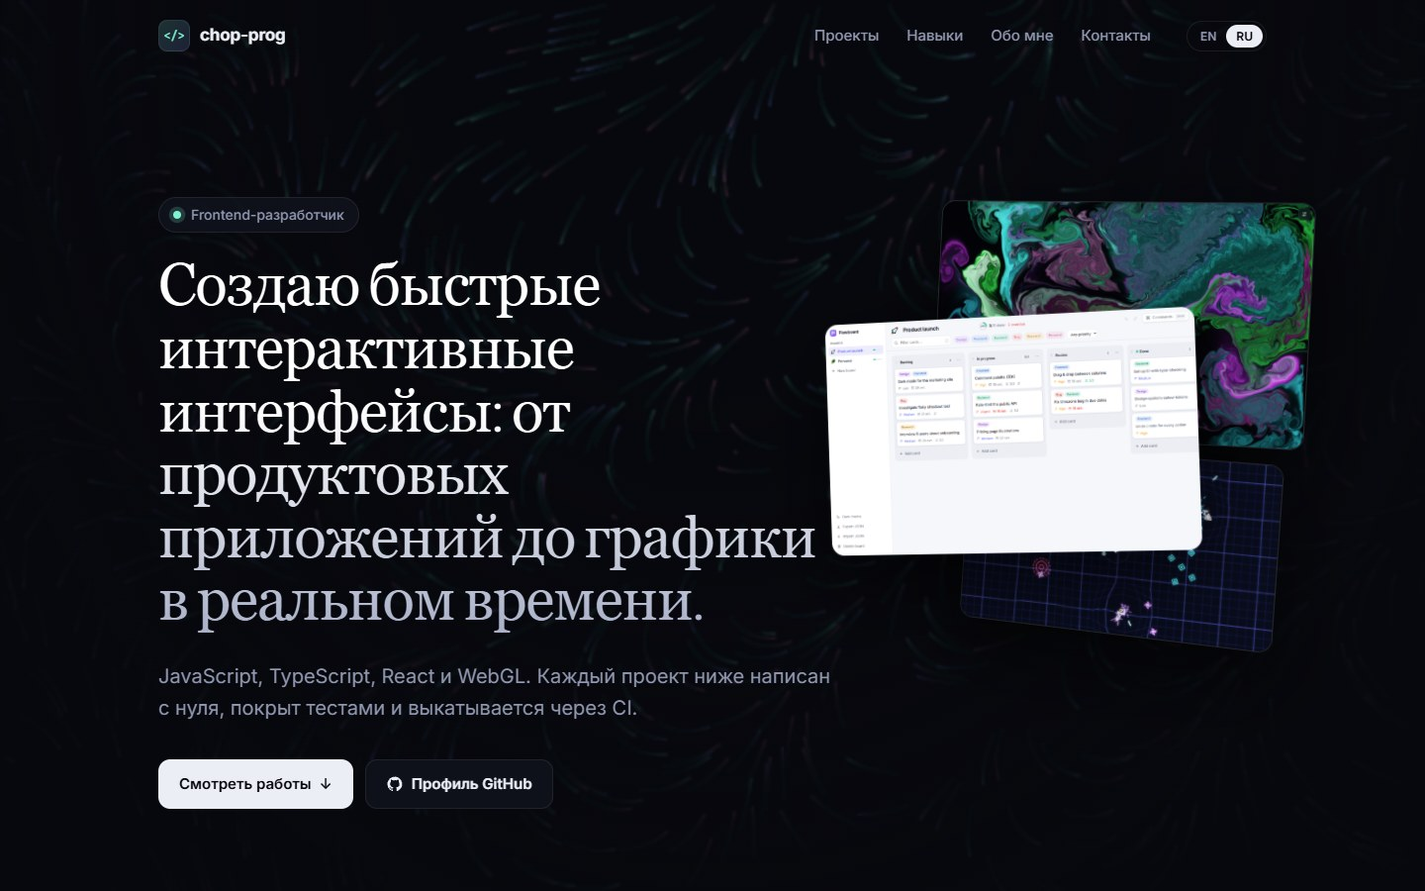
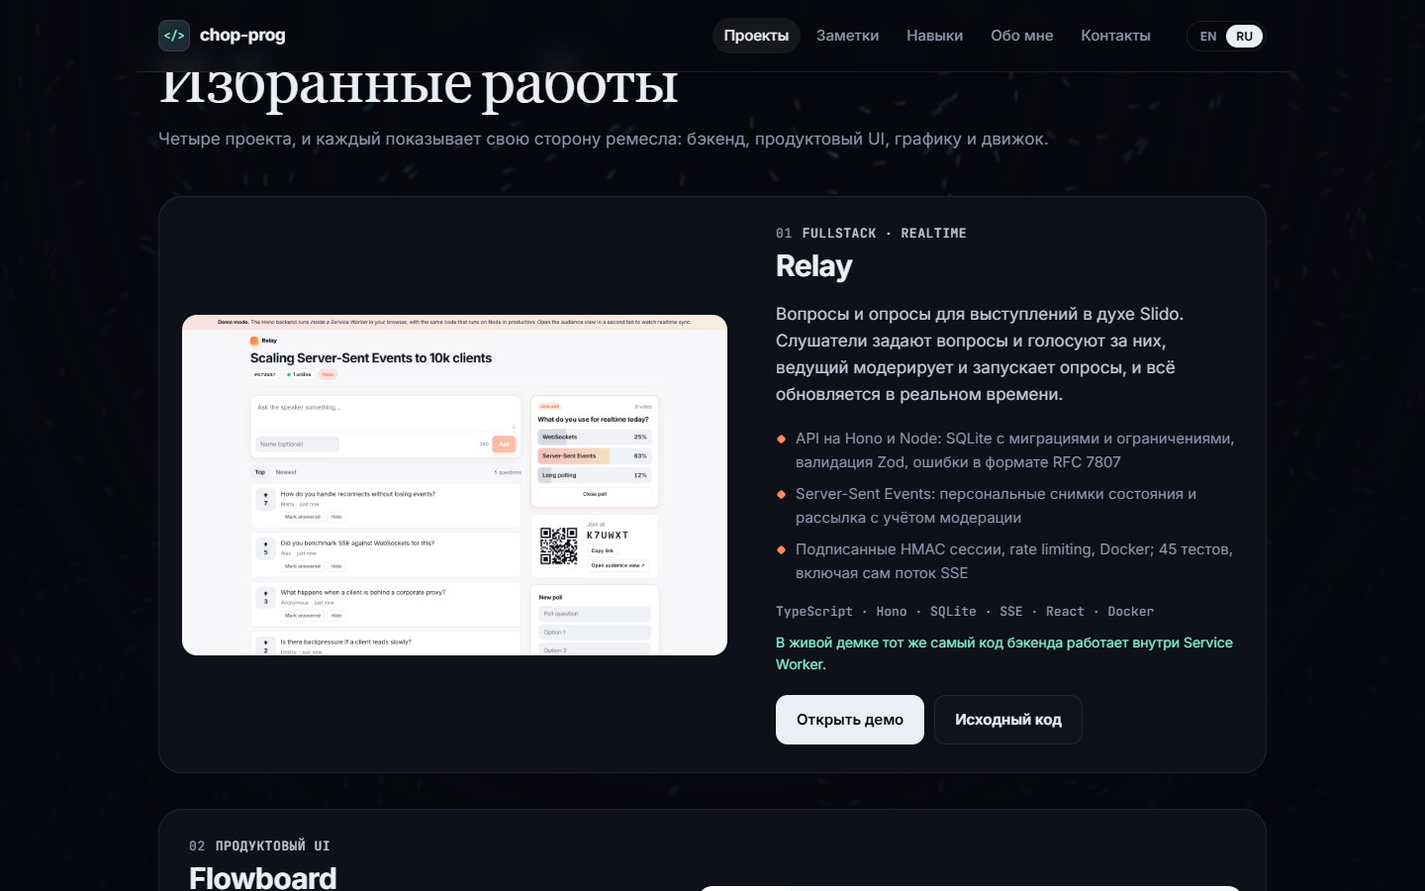
Add Relay (fullstack) and engineering notes

diff --git a/index.html b/index.html
@@ -25,6 +25,7 @@
     </a>
     <nav aria-label="Main">
       <a href="#projects" data-i18n="nav.projects">Projects</a>
+      <a href="#notes" data-i18n="nav.notes">Notes</a>
       <a href="#skills" data-i18n="nav.skills">Skills</a>
       <a href="#about" data-i18n="nav.about">About</a>
       <a href="#contact" data-i18n="nav.contact">Contact</a>
@@ -39,36 +40,58 @@
     <section class="hero">
       <div class="hero-art" aria-hidden="true">
         <img class="art a1" src="assets/aurora.jpg" width="1440" height="900" alt="">
-        <img class="art a2" src="assets/flowboard.png" width="1440" height="900" alt="">
+        <img class="art a2" src="assets/relay.png" width="1440" height="900" alt="">
         <img class="art a3" src="assets/void-pulse.jpg" width="1280" height="720" alt="">
       </div>
-      <p class="kicker reveal"><span class="dot" aria-hidden="true"></span><span data-i18n="hero.kicker">Frontend developer</span></p>
+      <p class="kicker reveal"><span class="dot" aria-hidden="true"></span><span data-i18n="hero.kicker">Frontend &amp; fullstack developer</span></p>
       <h1 class="reveal" data-i18n="hero.title">I build fast, interactive interfaces, from product apps to real-time graphics.</h1>
-      <p class="lead reveal" data-i18n="hero.lead">JavaScript, TypeScript, React and WebGL. Every project below is built from scratch, covered by tests and shipped with CI.</p>
+      <p class="lead reveal" data-i18n="hero.lead">TypeScript, React, Node.js, SQL and WebGL. Every project below is built from scratch, covered by tests and shipped with CI.</p>
       <div class="cta reveal">
         <a class="btn primary" href="#projects"><span data-i18n="hero.cta">See the work</span> <span aria-hidden="true">↓</span></a>
         <a class="btn" href="https://github.com/chop-prog" target="_blank" rel="noopener"><svg viewBox="0 0 24 24" aria-hidden="true"><path d="M12 2a10 10 0 0 0-3.2 19.5c.5.1.7-.2.7-.5v-1.7c-2.8.6-3.4-1.3-3.4-1.3-.5-1.2-1.1-1.5-1.1-1.5-.9-.6.1-.6.1-.6 1 .1 1.5 1 1.5 1 .9 1.6 2.4 1.1 3 .8.1-.7.4-1.1.6-1.3-2.2-.3-4.6-1.1-4.6-5a3.9 3.9 0 0 1 1-2.7 3.6 3.6 0 0 1 .1-2.6s.8-.3 2.7 1a9.4 9.4 0 0 1 5 0c1.9-1.3 2.7-1 2.7-1 .5 1.3.2 2.3.1 2.6a3.9 3.9 0 0 1 1 2.7c0 3.9-2.3 4.7-4.6 5 .4.3.7.9.7 1.9V21c0 .3.2.6.7.5A10 10 0 0 0 12 2z"/></svg><span data-i18n="hero.github">GitHub profile</span></a>
       </div>
       <dl class="stats reveal">
-        <div><dt data-count="3">3</dt><dd data-i18n="stats.projects">shipped projects</dd></div>
-        <div><dt data-count="66">66</dt><dd data-i18n="stats.tests">automated tests</dd></div>
+        <div><dt data-count="4">4</dt><dd data-i18n="stats.projects">shipped projects</dd></div>
+        <div><dt data-count="111">111</dt><dd data-i18n="stats.tests">automated tests</dd></div>
         <div><dt data-count="0">0</dt><dd data-i18n="stats.deps">runtime dependencies in the game and the simulation</dd></div>
-        <div><dt data-count="3">3</dt><dd data-i18n="stats.langs">languages: JS, TS, GLSL</dd></div>
+        <div><dt data-count="4">4</dt><dd data-i18n="stats.langs">languages: TS, JS, SQL, GLSL</dd></div>
       </dl>
     </section>
 
     <section id="projects" class="section">
       <header class="section-head reveal">
         <h2 data-i18n="projects.title">Selected work</h2>
-        <p data-i18n="projects.lead">Three projects that each show a different side of frontend work.</p>
+        <p data-i18n="projects.lead">Four projects that each show a different side of the craft: backend, product UI, graphics, engine work.</p>
       </header>
+
+      <article class="project reveal" style="--accent:#ff8a5c">
+        <a class="shot" href="https://chop-prog.github.io/relay/" target="_blank" rel="noopener" tabindex="-1" aria-hidden="true">
+          <img src="assets/relay.png" width="1440" height="900" alt="" loading="lazy" decoding="async">
+        </a>
+        <div class="info">
+          <p class="tag"><span>01</span> <span data-i18n="relay.tag">Fullstack · realtime</span></p>
+          <h3>Relay</h3>
+          <p data-i18n="relay.desc">Live Q&amp;A and polls for talks, in the spirit of Slido. The audience asks and upvotes questions, the host moderates and runs polls, and everything updates in real time.</p>
+          <ul>
+            <li data-i18n="relay.p1">Hono API on Node: SQLite with migrations and constraints, Zod validation, RFC 7807 errors</li>
+            <li data-i18n="relay.p2">Server-Sent Events with personalised snapshots and moderation-aware fan-out</li>
+            <li data-i18n="relay.p3">HMAC-signed sessions, rate limiting, Docker; 45 tests, including the SSE stream itself</li>
+          </ul>
+          <p class="tech">TypeScript · Hono · SQLite · SSE · React · Docker</p>
+          <p class="note" data-i18n="relay.note">The live demo runs the same backend code inside a Service Worker.</p>
+          <div class="links">
+            <a class="btn primary" href="https://chop-prog.github.io/relay/" target="_blank" rel="noopener" data-i18n="live">Live demo</a>
+            <a class="btn" href="https://github.com/chop-prog/relay" target="_blank" rel="noopener" data-i18n="code">Source code</a>
+          </div>
+        </div>
+      </article>
 
       <article class="project reveal" style="--accent:#818cf8">
         <a class="shot" href="https://chop-prog.github.io/flowboard/" target="_blank" rel="noopener" tabindex="-1" aria-hidden="true">
           <img src="assets/flowboard.png" width="1440" height="900" alt="" loading="lazy" decoding="async">
         </a>
         <div class="info">
-          <p class="tag"><span>01</span> <span data-i18n="flowboard.tag">Product UI</span></p>
+          <p class="tag"><span>02</span> <span data-i18n="flowboard.tag">Product UI</span></p>
           <h3>Flowboard</h3>
           <p data-i18n="flowboard.desc">A keyboard-first kanban board in the spirit of Linear and Trello: drag & drop, a ⌘K command palette, undo/redo for every action, filters, offline persistence.</p>
           <ul>
@@ -89,7 +112,7 @@
           <img src="assets/aurora.jpg" width="1440" height="900" alt="" loading="lazy" decoding="async">
         </a>
         <div class="info">
-          <p class="tag"><span>02</span> <span data-i18n="aurora.tag">Graphics · WebGL2</span></p>
+          <p class="tag"><span>03</span> <span data-i18n="aurora.tag">Graphics · WebGL2</span></p>
           <h3>Aurora</h3>
           <p data-i18n="aurora.desc">Real-time fluid dynamics in the browser. The Navier–Stokes equations are solved on the GPU every frame, and you stir the fluid with the mouse.</p>
           <ul>
@@ -110,7 +133,7 @@
           <img src="assets/void-pulse.jpg" width="1280" height="720" alt="" loading="lazy" decoding="async">
         </a>
         <div class="info">
-          <p class="tag"><span>03</span> <span data-i18n="void.tag">Game · Canvas</span></p>
+          <p class="tag"><span>04</span> <span data-i18n="void.tag">Game · Canvas</span></p>
           <h3>VOID PULSE</h3>
           <p data-i18n="void.desc">A neon twin-stick roguelite with its own engine: a warping spring-mass grid, bloom, a boss fight and music synthesised entirely in Web Audio.</p>
           <ul>
@@ -127,6 +150,54 @@
       </article>
     </section>
 
+    <section id="notes" class="section">
+      <header class="section-head reveal">
+        <h2 data-i18n="eng.title">Engineering notes</h2>
+        <p data-i18n="eng.lead">A few decisions from these projects, with the code behind them.</p>
+      </header>
+      <div class="notes">
+        <article class="note-card reveal">
+          <p class="note-tag">Relay · <a href="https://github.com/chop-prog/relay/blob/main/web/sw.ts" target="_blank" rel="noopener">web/sw.ts</a></p>
+          <h3 data-i18n="eng.relay.title">One backend, two runtimes</h3>
+          <p data-i18n="eng.relay.body">The Hono app depends only on interfaces. Node runs it with SQLite; the GitHub Pages demo runs the same code in a Service Worker with an in-memory store, so the public demo goes through the real validation, auth and SSE paths.</p>
+<pre><code><span class="k">const</span> app = createApp({ store, signer, runtime: <span class="s">'service-worker'</span> });
+
+self.addEventListener(<span class="s">'fetch'</span>, (e) =&gt; {
+  <span class="k">if</span> (!isApiRequest(e.request)) <span class="k">return</span>;
+  e.respondWith(app.fetch(toAppRequest(e.request)));
+});</code></pre>
+        </article>
+        <article class="note-card reveal">
+          <p class="note-tag">Flowboard · <a href="https://github.com/chop-prog/flowboard/blob/main/src/components/BoardView.tsx" target="_blank" rel="noopener">BoardView.tsx</a></p>
+          <h3 data-i18n="eng.flow.title">One undo step per drag</h3>
+          <p data-i18n="eng.flow.body">While a card is dragged, a local preview layout moves it between columns so the board makes room live. A single action is committed on drop, which keeps the undo history clean.</p>
+<pre><code><span class="c">// during drag: local only, nothing in history</span>
+setLayout(moveBetweenColumns(layout, id, from, to, index));
+
+<span class="c">// on drop: exactly one undoable action</span>
+dispatch({ type: <span class="s">'card/move'</span>, id, toColumnId, toIndex });</code></pre>
+        </article>
+        <article class="note-card reveal">
+          <p class="note-tag">Aurora · <a href="https://github.com/chop-prog/aurora/blob/main/src/shaders.js" target="_blank" rel="noopener">shaders.js</a></p>
+          <h3 data-i18n="eng.aurora.title">Navier–Stokes in a few shader passes</h3>
+          <p data-i18n="eng.aurora.body">Each frame advects, adds vorticity confinement, solves pressure with Jacobi iterations and projects the velocity field to make it divergence-free, all in fragment shaders on half-float textures.</p>
+<pre><code><span class="c">// one Jacobi iteration of ∇²p = ∇·u</span>
+<span class="k">float</span> L = texture(uPressure, vL).x;  <span class="c">// …R, T, B</span>
+<span class="k">float</span> div = texture(uDivergence, vUv).x;
+fragColor = vec4((L + R + B + T - div) * <span class="n">0.25</span>, <span class="n">0</span>, <span class="n">0</span>, <span class="n">1</span>);</code></pre>
+        </article>
+        <article class="note-card reveal">
+          <p class="note-tag">VOID PULSE · <a href="https://github.com/chop-prog/void-pulse/blob/main/src/engine/particles.js" target="_blank" rel="noopener">particles.js</a></p>
+          <h3 data-i18n="eng.void.title">Thousands of sparks, a few draw calls</h3>
+          <p data-i18n="eng.void.body">Particles live in typed arrays with swap-remove. At draw time they are counting-sorted into colour × alpha buckets, so the whole system costs one stroke() call per bucket.</p>
+<pre><code><span class="k">for</span> (i = <span class="n">0</span>; i &lt; n; i++) counts[keys[i] = bucketOf(i)]++;
+prefixSum(counts);
+<span class="k">for</span> (i = <span class="n">0</span>; i &lt; n; i++) order[counts[keys[i]]++] = i;
+<span class="c">// draw: beginPath() / stroke() only when the bucket changes</span></code></pre>
+        </article>
+      </div>
+    </section>
+
     <section id="skills" class="section">
       <header class="section-head reveal">
         <h2 data-i18n="skills.title">Toolbox</h2>
@@ -136,6 +207,10 @@
         <div class="skill-group reveal">
           <h3 data-i18n="skills.core">Core</h3>
           <ul><li>JavaScript (ES2023)</li><li>TypeScript</li><li>HTML</li><li>CSS</li><li>ES modules</li></ul>
+        </div>
+        <div class="skill-group reveal">
+          <h3 data-i18n="skills.backend">Backend</h3>
+          <ul><li>Node.js</li><li>Hono</li><li>REST & RFC 7807</li><li>SQLite / SQL</li><li>Server-Sent Events</li><li>Zod</li><li>HMAC auth</li><li>Rate limiting</li><li>Docker</li></ul>
         </div>
         <div class="skill-group reveal">
           <h3 data-i18n="skills.ui">UI & state</h3>

diff --git a/src/i18n.js b/src/i18n.js
@@ -5,22 +5,39 @@
 export const STRINGS = {
   en: {
     'nav.projects': 'Projects',
+    'nav.notes': 'Notes',
     'nav.skills': 'Skills',
     'nav.about': 'About',
     'nav.contact': 'Contact',
-    'hero.kicker': 'Frontend developer',
+    'hero.kicker': 'Frontend & fullstack developer',
     'hero.title': 'I build fast, interactive interfaces, from product apps to real-time graphics.',
-    'hero.lead': 'JavaScript, TypeScript, React and WebGL. Every project below is built from scratch, covered by tests and shipped with CI.',
+    'hero.lead': 'TypeScript, React, Node.js, SQL and WebGL. Every project below is built from scratch, covered by tests and shipped with CI.',
     'hero.cta': 'See the work',
     'hero.github': 'GitHub profile',
     'stats.projects': 'shipped projects',
     'stats.tests': 'automated tests',
     'stats.deps': 'runtime dependencies in the game and the simulation',
-    'stats.langs': 'languages: JS, TS, GLSL',
+    'stats.langs': 'languages: TS, JS, SQL, GLSL',
     'projects.title': 'Selected work',
-    'projects.lead': 'Three projects that each show a different side of frontend work.',
+    'projects.lead': 'Four projects that each show a different side of the craft: backend, product UI, graphics, engine work.',
     'live': 'Live demo',
     'code': 'Source code',
+    'relay.tag': 'Fullstack · realtime',
+    'relay.desc': 'Live Q&A and polls for talks, in the spirit of Slido. The audience asks and upvotes questions, the host moderates and runs polls, and everything updates in real time.',
+    'relay.p1': 'Hono API on Node: SQLite with migrations and constraints, Zod validation, RFC 7807 errors',
+    'relay.p2': 'Server-Sent Events with personalised snapshots and moderation-aware fan-out',
+    'relay.p3': 'HMAC-signed sessions, rate limiting, Docker; 45 tests, including the SSE stream itself',
+    'relay.note': 'The live demo runs the same backend code inside a Service Worker.',
+    'eng.title': 'Engineering notes',
+    'eng.lead': 'A few decisions from these projects, with the code behind them.',
+    'eng.relay.title': 'One backend, two runtimes',
+    'eng.relay.body': 'The Hono app depends only on interfaces. Node runs it with SQLite; the GitHub Pages demo runs the same code in a Service Worker with an in-memory store, so the public demo goes through the real validation, auth and SSE paths.',
+    'eng.flow.title': 'One undo step per drag',
+    'eng.flow.body': 'While a card is dragged, a local preview layout moves it between columns so the board makes room live. A single action is committed on drop, which keeps the undo history clean.',
+    'eng.aurora.title': 'Navier–Stokes in a few shader passes',
+    'eng.aurora.body': 'Each frame advects, adds vorticity confinement, solves pressure with Jacobi iterations and projects the velocity field to make it divergence-free, all in fragment shaders on half-float textures.',
+    'eng.void.title': 'Thousands of sparks, a few draw calls',
+    'eng.void.body': 'Particles live in typed arrays with swap-remove. At draw time they are counting-sorted into colour × alpha buckets, so the whole system costs one stroke() call per bucket.',
     'flowboard.tag': 'Product UI',
     'flowboard.desc': 'A keyboard-first kanban board in the spirit of Linear and Trello: drag & drop, a ⌘K command palette, undo/redo for every action, filters, offline persistence.',
     'flowboard.p1': 'React 19 + strict TypeScript; a normalised state with a pure, tested reducer',
@@ -39,6 +56,7 @@ export const STRINGS = {
     'skills.title': 'Toolbox',
     'skills.lead': 'What these projects are actually built with.',
     'skills.core': 'Core',
+    'skills.backend': 'Backend',
     'skills.ui': 'UI & state',
     'skills.graphics': 'Graphics & media',
     'skills.quality': 'Quality & delivery',
@@ -54,22 +72,39 @@ export const STRINGS = {
   },
   ru: {
     'nav.projects': 'Проекты',
+    'nav.notes': 'Заметки',
     'nav.skills': 'Навыки',
     'nav.about': 'Обо мне',
     'nav.contact': 'Контакты',
-    'hero.kicker': 'Frontend-разработчик',
+    'hero.kicker': 'Frontend- и fullstack-разработчик',
     'hero.title': 'Создаю быстрые интерактивные интерфейсы: от продуктовых приложений до графики в реальном времени.',
-    'hero.lead': 'JavaScript, TypeScript, React и WebGL. Каждый проект ниже написан с нуля, покрыт тестами и выкатывается через CI.',
+    'hero.lead': 'TypeScript, React, Node.js, SQL и WebGL. Каждый проект ниже написан с нуля, покрыт тестами и выкатывается через CI.',
     'hero.cta': 'Смотреть работы',
     'hero.github': 'Профиль GitHub',
     'stats.projects': 'готовых проекта',
     'stats.tests': 'автотестов',
     'stats.deps': 'зависимостей в игре и симуляции',
-    'stats.langs': 'языка: JS, TS, GLSL',
+    'stats.langs': 'языка: TS, JS, SQL, GLSL',
     'projects.title': 'Избранные работы',
-    'projects.lead': 'Три проекта, каждый из которых показывает свою сторону фронтенда.',
+    'projects.lead': 'Четыре проекта, и каждый показывает свою сторону ремесла: бэкенд, продуктовый UI, графику и движок.',
     'live': 'Открыть демо',
     'code': 'Исходный код',
+    'relay.tag': 'Fullstack · realtime',
+    'relay.desc': 'Вопросы и опросы для выступлений в духе Slido. Слушатели задают вопросы и голосуют за них, ведущий модерирует и запускает опросы, и всё обновляется в реальном времени.',
+    'relay.p1': 'API на Hono и Node: SQLite с миграциями и ограничениями, валидация Zod, ошибки в формате RFC 7807',
+    'relay.p2': 'Server-Sent Events: персональные снимки состояния и рассылка с учётом модерации',
+    'relay.p3': 'Подписанные HMAC сессии, rate limiting, Docker; 45 тестов, включая сам поток SSE',
+    'relay.note': 'В живой демке тот же самый код бэкенда работает внутри Service Worker.',
+    'eng.title': 'Инженерные заметки',
+    'eng.lead': 'Несколько решений из этих проектов и код, который за ними стоит.',
+    'eng.relay.title': 'Один бэкенд, две среды выполнения',
+    'eng.relay.body': 'Приложение на Hono зависит только от интерфейсов. Node запускает его с SQLite, а демо на GitHub Pages запускает тот же код в Service Worker с хранилищем в памяти. Поэтому публичная демка проходит через настоящие валидацию, авторизацию и SSE.',
+    'eng.flow.title': 'Одно перетаскивание = один шаг отмены',
+    'eng.flow.body': 'Пока карточку тащат, она перемещается в локальной раскладке-превью, и доска раздвигается на лету. В состояние при отпускании попадает одно действие, поэтому история отмены остаётся чистой.',
+    'eng.aurora.title': 'Навье–Стокс в нескольких шейдерных проходах',
+    'eng.aurora.body': 'Каждый кадр: адвекция, усиление завихрённости, решение уравнения давления методом Якоби и проекция скорости в бездивергентное поле. Всё во фрагментных шейдерах на half-float текстурах.',
+    'eng.void.title': 'Тысячи искр, несколько вызовов отрисовки',
+    'eng.void.body': 'Частицы хранятся в типизированных массивах с удалением через swap-remove. При отрисовке они раскладываются сортировкой подсчётом по корзинам «цвет × прозрачность», и вся система стоит один вызов stroke() на корзину.',
     'flowboard.tag': 'Продуктовый UI',
     'flowboard.desc': 'Канбан-доска с упором на клавиатуру в духе Linear и Trello: drag & drop, палитра команд ⌘K, отмена любого действия, фильтры, работа офлайн.',
     'flowboard.p1': 'React 19 и строгий TypeScript; нормализованное состояние с чистым, покрытым тестами reducer',
@@ -88,6 +123,7 @@ export const STRINGS = {
     'skills.title': 'Инструменты',
     'skills.lead': 'То, на чём на самом деле сделаны эти проекты.',
     'skills.core': 'Основа',
+    'skills.backend': 'Бэкенд',
     'skills.ui': 'UI и состояние',
     'skills.graphics': 'Графика и медиа',
     'skills.quality': 'Качество и доставка',

diff --git a/style.css b/style.css
@@ -213,7 +213,7 @@ html[lang='ru'] .hero h1 { max-width: 22ch; font-size: clamp(34px, 4.4vw, 60px);
 .tech { margin: 0 0 20px !important; font: 500 13px var(--mono); color: var(--muted) !important; }
 .links { display: flex; flex-wrap: wrap; gap: 10px; }
 
-.skills { display: grid; grid-template-columns: repeat(4, 1fr); gap: 16px; }
+.skills { display: grid; grid-template-columns: repeat(auto-fit, minmax(210px, 1fr)); gap: 16px; }
 .skill-group {
   --mx: 50%;
   --my: 50%;
@@ -300,3 +300,38 @@ html[lang='ru'] .hero h1 { max-width: 22ch; font-size: clamp(34px, 4.4vw, 60px);
   .js .reveal { opacity: 1; transform: none; transition: none; }
   .dot, .art { animation: none; }
 }
+
+/* ── Engineering notes ───────────────────────────────────────────────────── */
+.project .note { margin: -8px 0 20px !important; font-size: 14px; color: var(--mint) !important; }
+.notes { display: grid; grid-template-columns: repeat(2, 1fr); gap: 16px; }
+.note-card {
+  display: flex;
+  flex-direction: column;
+  gap: 10px;
+  padding: 22px;
+  border: 1px solid var(--border);
+  border-radius: 18px;
+  background: var(--surface);
+  backdrop-filter: blur(14px);
+  -webkit-backdrop-filter: blur(14px);
+}
+.note-tag { margin: 0; font: 500 12.5px var(--mono); color: var(--muted); }
+.note-tag a { color: var(--indigo); text-decoration: none; }
+.note-tag a:hover { text-decoration: underline; }
+.note-card h3 { margin: 0; font-size: 21px; letter-spacing: -0.015em; }
+.note-card > p:not(.note-tag) { margin: 0; color: #c4c9db; font-size: 15.5px; }
+.note-card pre {
+  margin: auto 0 0;
+  padding: 14px 16px;
+  border: 1px solid var(--border);
+  border-radius: 12px;
+  background: rgba(5, 6, 10, 0.75);
+  overflow-x: auto;
+  font: 500 12.5px/1.65 var(--mono);
+  color: #d7dbea;
+}
+.note-card .k { color: #c792ea; }
+.note-card .s { color: var(--mint); }
+.note-card .n { color: #f78c6c; }
+.note-card .c { color: #6b7394; font-style: italic; }
+@media (max-width: 900px) { .notes { grid-template-columns: 1fr; } }
